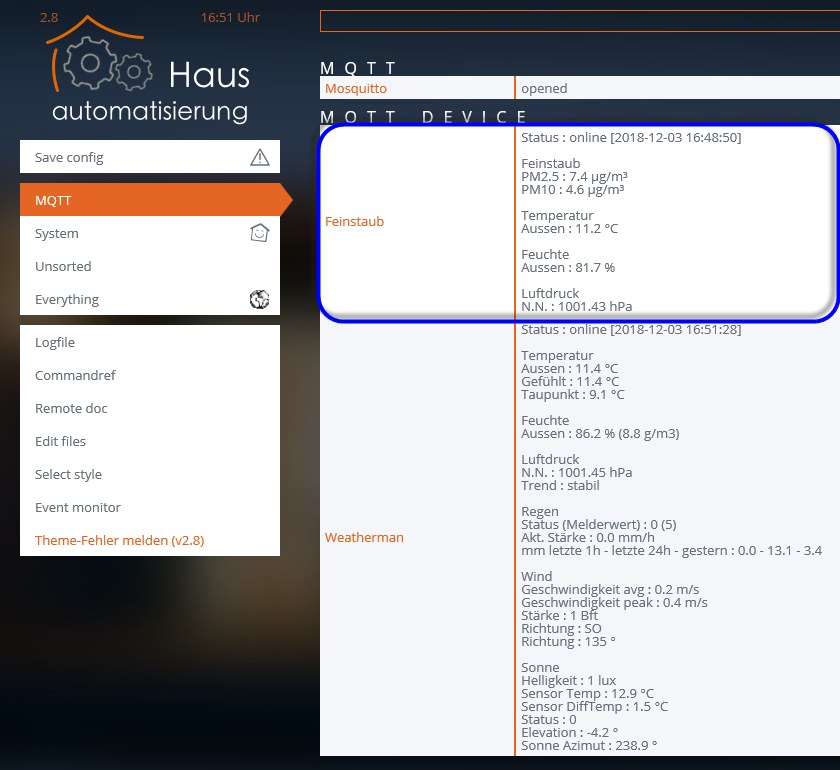
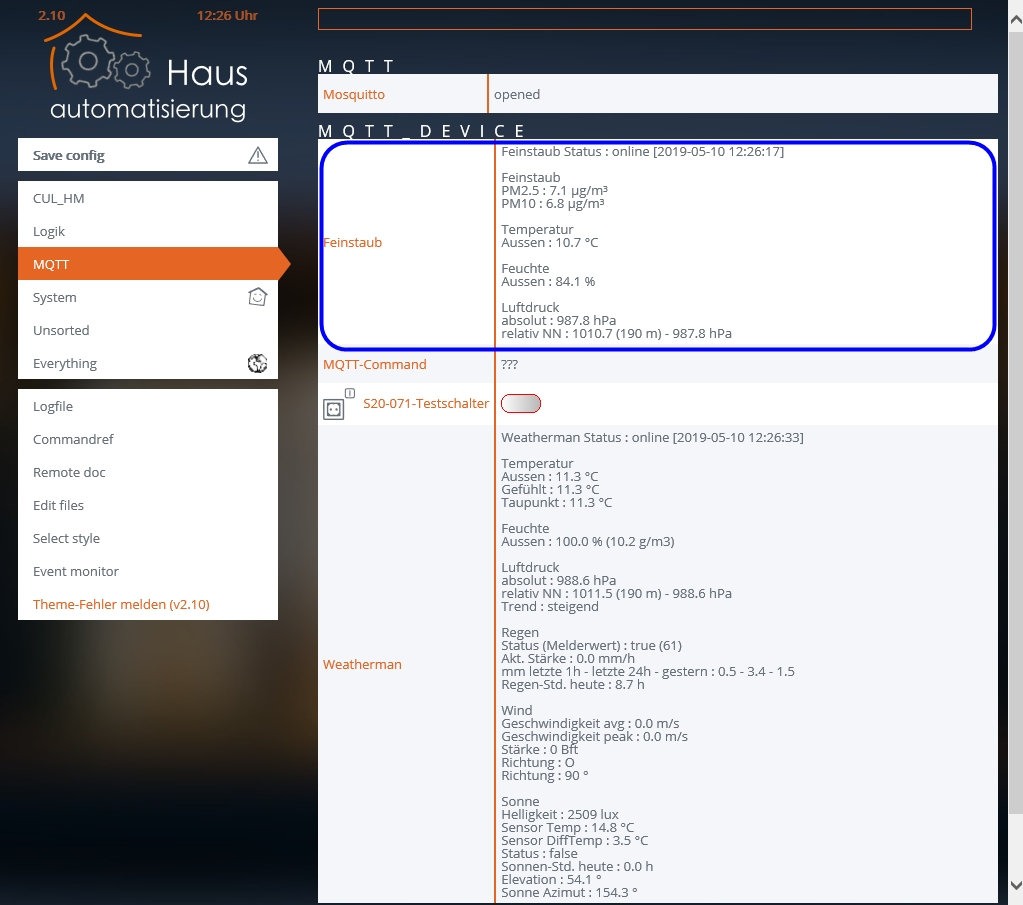
Update WM und FS Texte

Changed region(s): [[0.0, 0.0, 1.0, 1.0], [0.8357, 0.6857, 0.8667, 0.7169]]

diff --git a/myHOME - Weatherman/SETUP.md b/myHOME - Weatherman/SETUP.md
@@ -42,7 +42,10 @@ In der eigenen myHOME-Umgebung laufen so z.B. Node-RED, FHEM und Grafanna über 
   - dazu muss beim Weatherman im 'Expertenmodus' eingestellt werden:
     - CCU-Betrieb >> JSON-Daten an Server@CCU-IP
       - http://<IP-Weatherman\>/?ccu:<IP-NodeRED-Server\>:
-      - http://<IP-Weatherman\>/?param:12:1:
+        - Firmware 58:
+          - http://<IP-Weatherman\>/?param:12:1:
+        - Firmware > 86:
+          - http://<IP-Weatherman\>/?param:12:8181:
 - die Ortshöhe über N.N. muss im Weatherman auf '0' gesetzt werden, da die barometrische Höhenreduktion über das Node-RED Modul erfolgt:
   - http://<IP-Weatherman\>/?param:20:0:
 
@@ -83,8 +86,6 @@ Die CSV-Dateien sind vorkonfiguriert und können sofort benutzt werden. Bitte di
 Erläuterungen zu den CSV-Spalten finden sich in der Beschreibung:
 
 [Datenbank-Tabelle - SENSOR_DEVICES](/myHOME%20-%20Datenbank/README.md#datenbank-tabelle---sensor_devices)
-
-Anpassung der barometrischen Ortshöhen-Beschreibung "hPa (190 m ü. N.N.)" in der Zeile 23 der Datei 'myHOME_Devices_xxx.csv' von '190' auf den N.N. Höhenwert, auf den der gemessene barometrische Wert reduziert werden soll.
 
 Für den Weatherman werden die im JSON-String übergebenen 'name'-Bezeichnungen neu 'normiert' - damit braucht keine Code-Anpassung der Folge-Prozesse mehr erfolgen, wenn bei einer Firmware-Änderung die 'homematic_name'-Einträge geändert werden - bei den Folgeprozessen bleiben die festgelegten Device Bezeichner und Zuordnungen erhalten:
 
@@ -144,7 +145,14 @@ Kopieren des Weatherman Node-RED Moduls, indem die Datei 'myHOME_FLOW_Weatherman
 Mit einem Doppelklick auf den Node 'Init-Flow' die Anpassungen für das Weatherman Modul vornehmen.
 
 - *var myBaro_NN = 190;*<br>
-Altitude [m] - eigene Ortshöhe über N.N. zur Berechnung des barometrischen Luftdrucks in Bezug zu N.N.. Von '190' auf den N.N. Höhenwert, auf den der gemessene barometrische Wert umgerechnet werden soll, ändern<br>
+Altitude [m] - eigene Ortshöhe über N.N. zur Berechnung des barometrischen Luftdrucks in Bezug zu N.N.. Von dem Wert '190' auf den N.N. Höhenwert, auf den der gemessene barometrische Wert umgerechnet werden soll, ändern<br>
+  - Definitionen:
+    - absoluter Luftdruck = Luftdruckmessung am Standort des WM (ohne Korrekturwert)
+    - relativer Luftdruck - auf Meereshoehe reduzierter Luftdruckmesswert NN des WM (mit Korrekturwert)
+  - Wird im Weatherman eine Ortshoehe <> 0 eingetragen erfolgt die Ausgabe im Feld 'w_barometer' als relativer Luftdruckwert => dann muss hier 'var myBaro_NN = -<Ortshoehe>;' gesetzt werden, um auch den absoluten Luftdruckwert ermitteln zu können
+  - Wird im Weatherman eine Ortshoehe == 0 (--bitte so einstellen--) eingetragen erfolgt die Ausgabe im Feld 'w_barometer' als absoluter Luftdruckwert => dann muss hier 'var myBaro_NN = <Ortshoehe>;' gesetzt werden, um auch den relativen Luftdruckwert ermitteln zu können
+  - Wird hier 'var myBaro_NN = 0;' eingegeben, dann wird der Luftdruckwert des WM (gleich welche Ortshoehe im 'param:20' eingestellt ist) ohne Korrektur ausgegeben
+  - Mit der Ortshoehe werden automatisch die richtigen Werte fuer 'wm_baro' (absoluter Luftdruck) und 'wm_baro_nn' (relativer Luftdruck) gesetzt - das gilt auch fuer die Werteanzeigen 'Luftdruck' und 'Luftdruck NN' im Dashboard
 
 - *var myTmpNewOnly_Default = 1;*<br>
 Flow-Vorgabe, ob nur neue Readings (Werte) oder alle Readings eines Devices berücksichtigt werden sollen<br>
@@ -205,6 +213,9 @@ Man kann das Modul auch als reines 'Weatherman to MQTT' Modul ohne jegliche Anze
 Nach der Bereinigung wird mit dem 'Deploy' Knopf die Änderung veröffentlicht.
 
 ### Version
+
+1.1.0.0 - 2019-05-10
+- Anpassung für barometrische Höhenkorrektur 'myBaro_NN'
 
 1.0.0.0 - 2018-12-26
 - Erstausgabe

diff --git a/myHOME - Feinstaub/README.md b/myHOME - Feinstaub/README.md
@@ -33,17 +33,17 @@
 
 Gesamter Flow für alle Optionen mit Debug Optionen:
 
-![Node-RED - GUI -  WW-myHOME - Feinstaub](./img/NodeRED_GUI_Feinstaub_1.0.jpg)
+![Node-RED - GUI -  WW-myHOME - Feinstaub](./img/NodeRED_GUI_Feinstaub_1.1.jpg)
 
 ### Node-RED - FLOW
 
 Gesamter Flow für alle Optionen mit Debug Möglichkeiten:
 
-![Node-RED - FLOW -  WW-myHOME - Feinstaub](./img/NodeRED_FLOW_Feinstaub_1.0.jpg)
+![Node-RED - FLOW -  WW-myHOME - Feinstaub](./img/NodeRED_FLOW_Feinstaub_1.1.jpg)
 
 Flow für reine Node-RED GUI-Darstellung über MQTT:
 
-![Node-RED - FLOW -  WW-myHOME - Feinstaub - MQTT](./img/NodeRED_FLOW_Feinstaub_MQTT_1.0.jpg)
+![Node-RED - FLOW -  WW-myHOME - Feinstaub - MQTT](./img/NodeRED_FLOW_Feinstaub_MQTT_1.1.jpg)
 
 ### MQTT Feinstaub in FHEM
 
@@ -64,6 +64,9 @@ Feinstaub-Modul mit Selbstbau-Shield für BME280
 [Link MDAVI - Sensoren](https://www.madavi.de/sensor/graph.php?sensor=esp8266-5437269-bme280)
 
 ### Version
+
+1.1.0.0 - 2018-05-10
+- Aktualisierung und Verifikation für Firmware 123B
 
 1.0.0.0 - 2018-12-07
 - Erstausgabe

diff --git a/myHOME - Weatherman/README.md b/myHOME - Weatherman/README.md
@@ -30,17 +30,17 @@
 
 ### Node-RED - GUI
 
-![Node-RED - GUI -  WW-myHOME - Weatherman](./img/NodeRED_GUI_Weatherman_1.0.jpg)
+![Node-RED - GUI -  WW-myHOME - Weatherman](./img/NodeRED_GUI_Weatherman_1.1.jpg)
 
 ### Node-RED - FLOW
 
 Gesamter Flow für alle Optionen mit Debug Möglichkeiten:
 
-![Node-RED - FLOW -  WW-myHOME - Weatherman](./img/NodeRED_FLOW_Weatherman_1.0.jpg)
+![Node-RED - FLOW -  WW-myHOME - Weatherman](./img/NodeRED_FLOW_Weatherman_1.1.jpg)
 
 Flow für reine Node-RED GUI-Darstellung über MQTT:
 
-![Node-RED - FLOW -  WW-myHOME - Weatherman - MQTT](./img/NodeRED_FLOW_Weatherman_MQTT_1.0.jpg)
+![Node-RED - FLOW -  WW-myHOME - Weatherman - MQTT](./img/NodeRED_FLOW_Weatherman_MQTT_1.1.jpg)
 
 ### MQTT Weatherman in FHEM
 
@@ -55,6 +55,9 @@ Weatherman (oben) mit Feinstaub-Modul (unten)
 ![Hardware - Weatherman](./img/Hardware_Weatherman_Feinstaub.jpg)
 
 ### Version
+
+1.1.0.0 - 2018-05-10
+- Aktualisierung und Verifikation für Firmware 107
 
 1.0.0.0 - 2018-12-07
 - Erstausgabe

diff --git a/myHOME - Datenbank/README.md b/myHOME - Datenbank/README.md
@@ -116,7 +116,7 @@ READ_FLAG       internes Flag           0 ... 255
 
 ### Version
 
-1.1.0.0 - 2018-05-09
+1.1.0.0 - 2018-05-10
 - Fortschreibung - siehe 'SQL-Details zur WW-myHOME-Datenbank'
 
 1.0.0.0 - 2018-12-23
